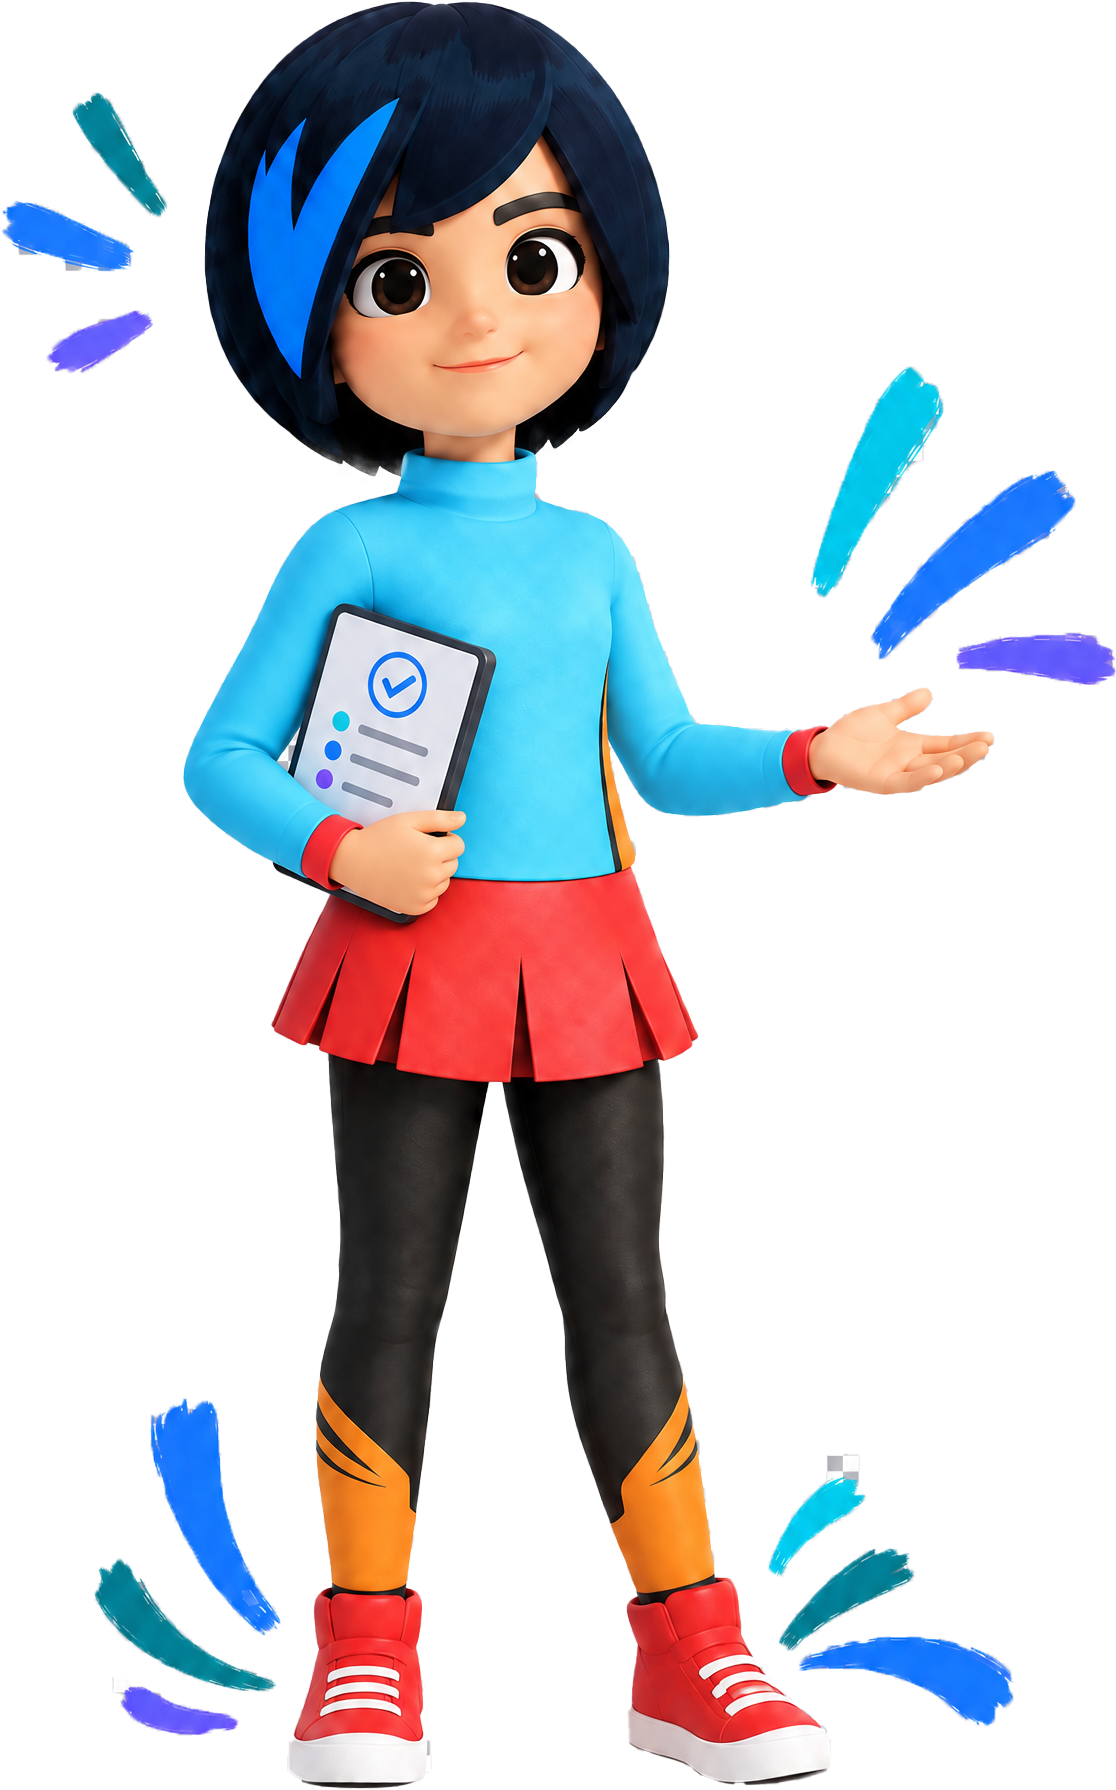
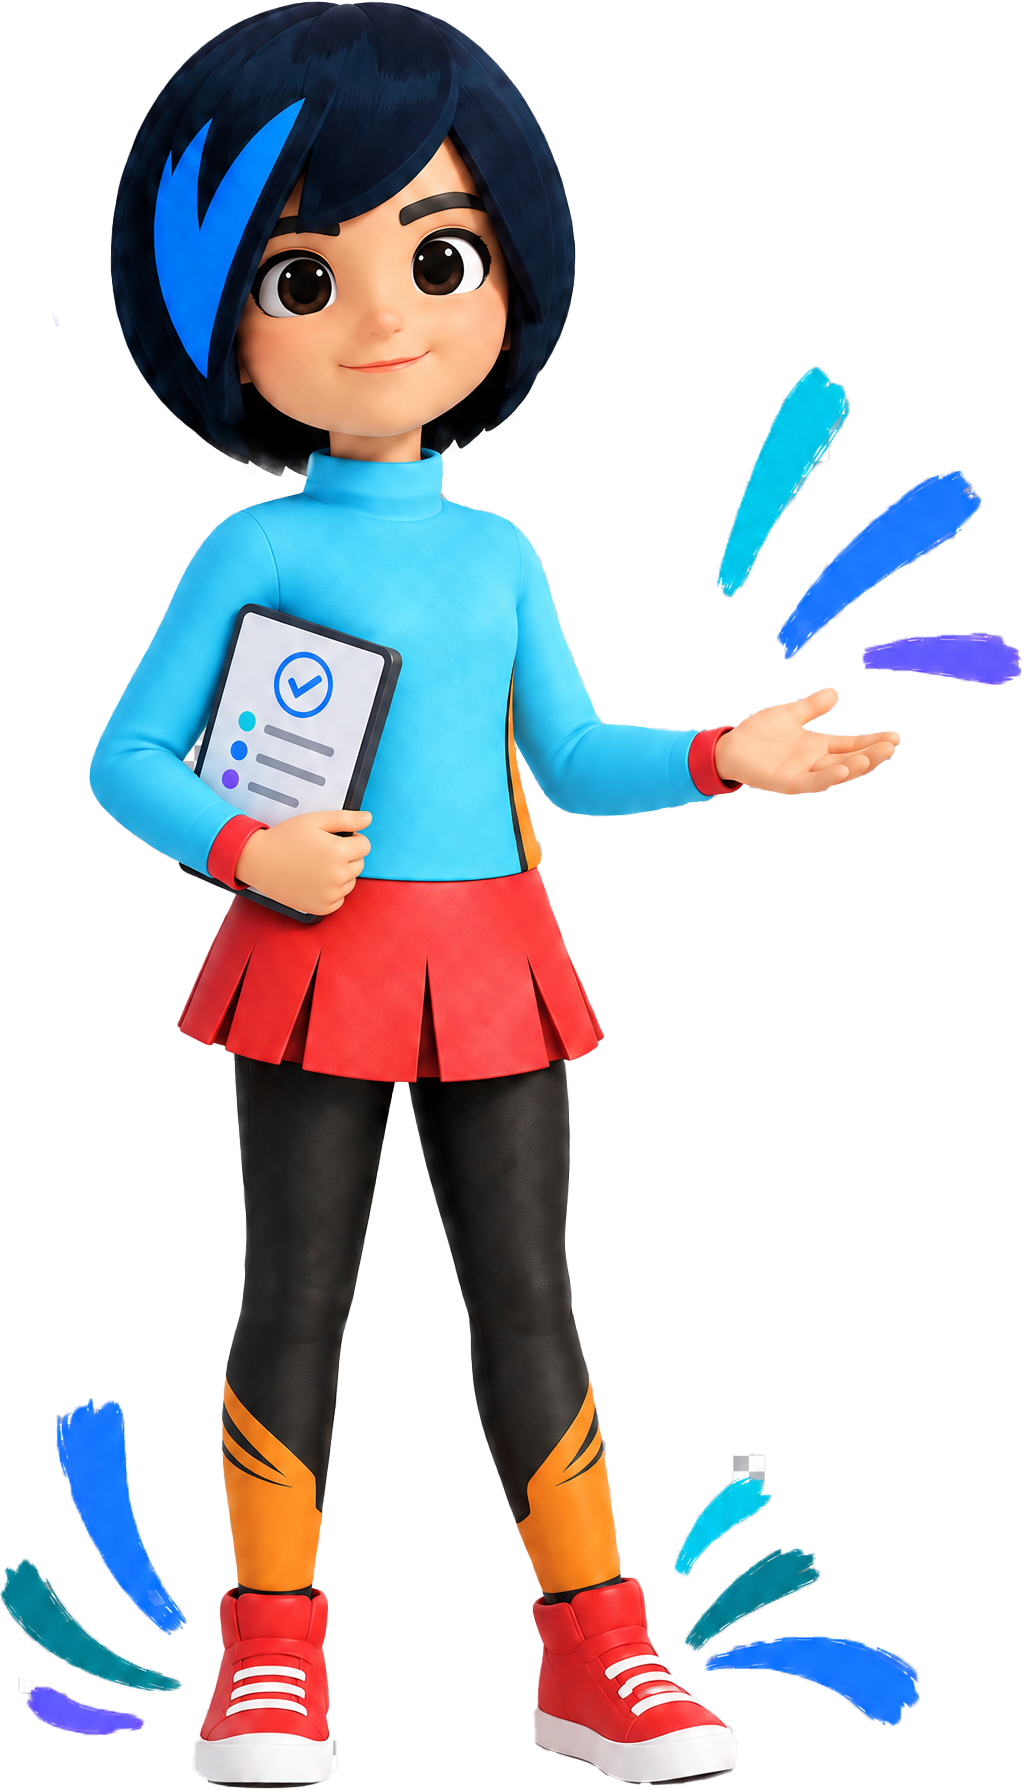
Digizen A: hero de reglas de ADA con imagen, lista y cierre
- El hero de /reglas-de-ada integra la imagen de ADA, el texto introductorio
  y la lista de 13 reglas con checks.
- ADA en desktop mide 475px de alto; la lista de reglas se desplaza a la
  derecha con más padding izquierdo.
- La sección de tarjetas queda debajo del hero y se agrega el bloque final
  "¿Ya viste suficiente?" con los botones de inscripción y ADA.
- Se actualizan las imágenes dg-scene-a10-ada-rules-closing (png y webp).

diff --git a/Projects/digizen-landing/angular-build/src/app/app.html b/Projects/digizen-landing/angular-build/src/app/app.html
@@ -1240,75 +1240,21 @@
   </main>
   } @else {
   <main class="dg-main dg-rules-page">
-    <section class="dg-section dg-section--cyan dg-rules-hero" aria-labelledby="rules-title">
-      <div class="dg-rules-hero-copy">
-        <p class="dg-kicker">Reglas de ADA</p>
-        <h1 id="rules-title" class="dg-display"><span class="dg-h2-muted">Las reglas de</span><span class="dg-emphasis--cyan">ADA</span></h1>
-        <div class="dg-copy">
-          <p>Antes de que tu hijo converse con ADA, queremos que sepas algo con claridad:</p>
-          <p><strong>ADA no es una inteligencia artificial abierta hablando sin rumbo con un menor.</strong></p>
-          <p>ADA sigue reglas.</p>
-          <p>
-            Estas reglas existen para que tu hijo pueda practicar criterio digital en un espacio guiado, con
-            límites, privacidad y acompañamiento adulto cuando hace falta.
-          </p>
-        </div>
-      </div>
-      <aside class="dg-note dg-note--green dg-rules-hero-note">
-        <div class="dg-note-avatar" aria-hidden="true">
-          <svg lucideShield aria-hidden="true"></svg>
-        </div>
-        <div>
-          <strong>Presencia, no vigilancia.</strong><em>Criterio, no candado.</em>
-        </div>
-      </aside>
-    </section>
-
-    <section class="dg-section dg-rules-section" aria-labelledby="rules-list-title">
-      <p class="dg-kicker">Seguridad por diseño</p>
-      <h2 id="rules-list-title" class="dg-h2"><span class="dg-h2-muted">ADA no improvisa:</span>responde dentro de <span class="dg-emphasis--blue">estas reglas</span></h2>
-      <div class="dg-rules-grid">
-        @for (rule of adaRules; track rule.title; let i = $index; let first = $first) {
-        <article class="dg-card dg-rule-card" [class.dg-rule-card--wide]="first"
-          [style.--accent]="first ? 'var(--dg-blue)' : 'var(--dg-' + ruleAccent(i - 1) + ')'">
-          <div class="dg-rule-head">
-            <div class="dg-icon">
-              <svg viewBox="0 0 24 24" aria-hidden="true">
-                @for (d of rule.icon; track d) {
-                <path [attr.d]="d"></path>
-                }
-              </svg>
-            </div>
-            <div class="dg-rule-heading">
-              <span class="dg-rule-num">{{ first ? 'La regla más importante' : 'Regla ' + ruleNumber(i - 1) }}</span>
-              <h3>{{ rule.title }}</h3>
-            </div>
-          </div>
-          <p class="dg-rule-subtitle">{{ rule.subtitle }}</p>
-          <p class="dg-rule-body">{{ rule.body }}</p>
-          @if (first) {
-          <figure class="dg-rule-figure">
-            <picture>
-              <source media="(max-width: 1023px)"
-                srcset="assets/digizen/generated/scenes/dg-scene-a09-rules-presence-mobile.webp" />
-              <img src="assets/digizen/generated/scenes/dg-scene-a09-rules-presence.webp"
-                alt="ADA y un adolescente de pie en una plataforma virtual, frente a dos caminos de tarjetas de redes sociales: él se lleva la mano a la barbilla para pensar y ADA, a su lado, abre las manos para acompañarlo sin elegir por él"
-                width="2048" height="1366" loading="lazy" />
-            </picture>
-          </figure>
-          }
-        </article>
-        }
-      </div>
-    </section>
-
-    <section class="dg-section dg-rules-summary" aria-labelledby="rules-summary-title">
+    <section class="dg-section dg-section--cyan dg-rules-summary dg-rules-summary--intro" aria-labelledby="rules-title">
       <div class="dg-rules-summary-copy">
-        <p class="dg-kicker">En resumen</p>
-        <h2 id="rules-summary-title" class="dg-h2"><span class="dg-h2-muted">ADA sigue</span> <span class="dg-emphasis--green">reglas.</span></h2>
-        <p class="dg-lead">
-          Para conversar con propósito educativo y mantener siempre el criterio humano al centro.
-        </p>
+        <p class="dg-kicker">Marco de seguridad</p>
+        <h1 id="rules-title" class="dg-h2 dg-rules-title-inline"><span class="dg-h2-muted">Las reglas de&nbsp;</span><span class="dg-emphasis--cyan">ADA</span></h1>
+        <div class="dg-copy">
+          <p>
+            Antes de que tu hijo converse con ADA, queremos que sepas algo con claridad:
+            <strong>no es una inteligencia artificial abierta hablando sin rumbo con un menor.</strong>
+          </p>
+          <p>
+            Existe para que practique criterio digital en un espacio guiado, con límites, privacidad y
+            acompañamiento adulto cuando hace falta.
+          </p>
+          <p><strong>Presencia, no vigilancia. Criterio, no candado.</strong></p>
+        </div>
       </div>
       <figure class="dg-rules-summary-figure">
         <picture>
@@ -1318,9 +1264,9 @@
           <img
             src="assets/digizen/generated/scenes/dg-scene-a10-ada-rules-closing.png"
             alt="ADA sosteniendo una tableta con reglas públicas"
-            width="1116"
+            width="1022"
             height="1790"
-            loading="lazy" />
+            loading="eager" />
         </picture>
       </figure>
       <div class="dg-rules-summary-details">
@@ -1405,6 +1351,67 @@
         </a>
       </div>
     </section>
+
+    <section class="dg-section dg-rules-section" aria-labelledby="rules-list-title">
+      <p class="dg-kicker">Seguridad por diseño</p>
+      <h2 id="rules-list-title" class="dg-h2"><span class="dg-h2-muted">ADA no improvisa:</span>responde dentro de <span class="dg-emphasis--blue">estas reglas</span></h2>
+      <div class="dg-rules-grid">
+        @for (rule of adaRules; track rule.title; let i = $index; let first = $first) {
+        <article class="dg-card dg-rule-card" [class.dg-rule-card--wide]="first"
+          [style.--accent]="first ? 'var(--dg-blue)' : 'var(--dg-' + ruleAccent(i - 1) + ')'">
+          <div class="dg-rule-head">
+            <div class="dg-icon">
+              <svg viewBox="0 0 24 24" aria-hidden="true">
+                @for (d of rule.icon; track d) {
+                <path [attr.d]="d"></path>
+                }
+              </svg>
+            </div>
+            <div class="dg-rule-heading">
+              <span class="dg-rule-num">{{ first ? 'La regla más importante' : 'Regla ' + ruleNumber(i - 1) }}</span>
+              <h3>{{ rule.title }}</h3>
+            </div>
+          </div>
+          <p class="dg-rule-subtitle">{{ rule.subtitle }}</p>
+          <p class="dg-rule-body">{{ rule.body }}</p>
+          @if (first) {
+          <figure class="dg-rule-figure">
+            <picture>
+              <source media="(max-width: 1023px)"
+                srcset="assets/digizen/generated/scenes/dg-scene-a09-rules-presence-mobile.webp" />
+              <img src="assets/digizen/generated/scenes/dg-scene-a09-rules-presence.webp"
+                alt="ADA y un adolescente de pie en una plataforma virtual, frente a dos caminos de tarjetas de redes sociales: él se lleva la mano a la barbilla para pensar y ADA, a su lado, abre las manos para acompañarlo sin elegir por él"
+                width="2048" height="1366" loading="lazy" />
+            </picture>
+          </figure>
+          }
+        </article>
+        }
+      </div>
+    </section>
+
+    <section class="dg-decision dg-decision--with-portrait" aria-label="Decisión después de leer las reglas">
+      <figure class="dg-decision-portrait" aria-hidden="true">
+        <img src="assets/digizen/generated/scenes/dg-scene-cta-father-son-team-1-1.webp" alt="" width="956"
+          height="956" />
+      </figure>
+      <div class="dg-decision-copy">
+        <p class="dg-eyebrow">¿Ya viste suficiente?</p>
+        <p class="dg-decision-title">Tu hijo puede empezar hoy mismo.</p>
+        <p class="dg-support">Con reglas claras, propósito educativo y garantía 30 días desde el primer chat.</p>
+      </div>
+      <div class="dg-decision-actions">
+        <button class="dg-btn" type="button" (click)="checkout()">
+          Inscribir a mi hijo · EMPIEZA HOY<svg viewBox="0 0 24 24" aria-hidden="true">
+            <path d="M5 12h14M13 6l6 6-6 6"></path>
+          </svg></button><button class="dg-btn dg-btn--secondary" type="button" (click)="openAda()">
+          <svg viewBox="0 0 24 24" aria-hidden="true">
+            <path d="M21 12a8 8 0 0 1-11.6 7.1L4 20l1-4.6A8 8 0 1 1 21 12Z"></path>
+          </svg>Tengo dudas · CONVERSAR CON ADA
+        </button>
+      </div>
+    </section>
+
   </main>
   }
 

diff --git a/Projects/digizen-landing/angular-build/src/styles.css b/Projects/digizen-landing/angular-build/src/styles.css
@@ -2806,6 +2806,9 @@ details[open] .dg-chevron {
 .dg-rules-summary-copy .dg-lead {
   max-width: 46ch;
 }
+.dg-rules-title-inline .dg-h2-muted {
+  display: inline;
+}
 .dg-rules-checks {
   margin: 0;
   padding: 0;
@@ -2849,23 +2852,34 @@ details[open] .dg-chevron {
     grid-template-areas:
       "figure copy details"
       "figure actions details";
-    grid-template-columns: minmax(250px, 0.66fr) minmax(320px, 0.9fr) minmax(300px, 0.78fr);
-    column-gap: clamp(18px, 2.6vw, 42px);
+    grid-template-columns: minmax(260px, 0.72fr) minmax(360px, 0.95fr) minmax(320px, 0.82fr);
+    column-gap: clamp(44px, 4.8vw, 86px);
     min-height: 540px;
+    overflow: visible;
   }
   .dg-rules-summary-figure {
     align-self: end;
-    justify-self: end;
-    margin: 0 clamp(-28px, -2vw, -12px) -28px 0;
+    justify-self: start;
+    margin: 0 0 -28px;
+    overflow: visible;
   }
   .dg-rules-summary-figure img {
-    width: min(116%, 410px);
+    width: auto;
+    max-width: none;
+    height: 475px;
   }
   .dg-rules-summary-copy .dg-lead {
     max-width: 42ch;
   }
+  .dg-rules-title-inline {
+    max-width: none;
+    white-space: nowrap;
+  }
   .dg-rules-summary-actions {
     margin-top: 8px;
+  }
+  .dg-rules-summary-details {
+    padding-left: clamp(40px, 4vw, 64px);
   }
   .dg-rules-checks {
     gap: 9px;
@@ -2900,12 +2914,14 @@ details[open] .dg-chevron {
     column-gap: 14px;
     row-gap: 22px;
     align-items: end;
+    overflow: visible;
   }
   .dg-rules-summary-figure {
     align-self: end;
     justify-self: start;
-    margin-left: -34px;
+    margin-left: -12px;
     margin-bottom: -30px;
+    overflow: visible;
   }
   .dg-rules-summary-figure img {
     width: min(118%, 430px);
@@ -3238,7 +3254,12 @@ details[open] .dg-chevron {
     gap: 32px;
   }
   .dg-rules-summary-figure {
-    margin: 8px 0 6px;
+    justify-self: center;
+    width: 100%;
+    margin: 8px auto 6px;
+  }
+  .dg-rules-summary-figure img {
+    margin: 0 auto;
   }
   .dg-rules-summary-actions,
   .dg-rules-summary-actions .dg-btn,
